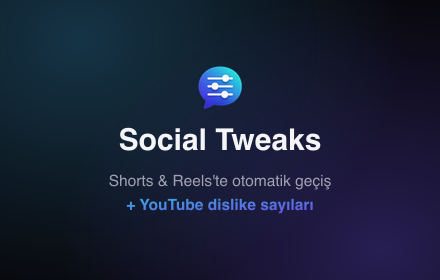
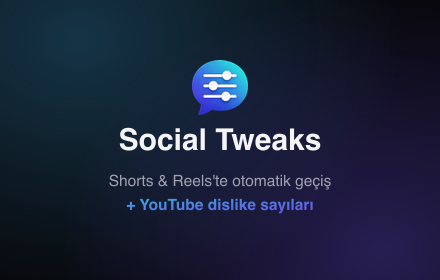
feat(store): iki dilli mağaza görselleri + listeleme metinleri (TR/EN)
- generate-store-assets.mjs iki dilli: store-assets/ (TR) + store-assets/en/ (EN)
- Ekran görüntüleri, promo blokları İngilizce sürüm
- Logo çerçeve/trim ile hizalandı (OG düzeltmesiyle tutarlı)
- store-assets/listing.md: gözden geçirilmiş TR + EN mağaza metinleri, kategori notu

Changed region(s): [[0.4136, 0.2, 0.5614, 0.4286]]

diff --git a/store-assets/listing.md b/store-assets/listing.md
@@ -1,0 +1,89 @@
+# Chrome Web Store — Mağaza Girişi Metinleri
+
+Bu dosya, Web Store Developer Dashboard'a girilecek metinleri tutar (TR + EN).
+
+## Hangi alan nereden geliyor?
+
+| Alan | Kaynak | Not |
+|---|---|---|
+| **Başlık** (45) | Paket → `manifest.name` | "Social Tweaks" (iki dilde aynı). Otomatik gelir, dashboard'da düzenlenmez. |
+| **Kısa özet** (132) | Paket → `manifest.description` (i18n) | v1.1.0 yüklenince dile göre otomatik: TR `_locales/tr`, EN `_locales/en`. |
+| **Açıklama** (16.000) | Dashboard → Mağaza girişi → dil seç → elle yapıştır | Aşağıdaki uzun metinler. **Her dil için ayrı girilir.** |
+| **Ekran görüntüleri / promo** | Dashboard → Grafik öğeler | TR: `store-assets/`, EN: `store-assets/en/` |
+
+## ⚠️ Kategori uyarısı
+Şu an **"Geliştirici Araçları"** seçili — bu **yanlış**. Bu bir geliştirici aracı değil;
+medya tüketimini iyileştiren bir kullanıcı eklentisi. Yanlış kategori, yanlış kitleye
+düşmek demek. Daha uygun seçenek: **Araçlar (Tools)** veya **Sadece Eğlence (Just for Fun)**.
+
+---
+
+## 🇹🇷 Türkçe
+
+**Başlık:** Social Tweaks
+
+**Kısa özet (121/132):**
+> Sosyal medya için küçük iyileştirmeler: YouTube Shorts ve Instagram Reels bittiğinde otomatik olarak bir sonrakine geçer.
+
+**Açıklama:**
+
+```
+Social Tweaks, sosyal medya deneyimini iyileştiren küçük ama işe yarar ayarlar sunar:
+
+• YouTube Shorts — Otomatik geçiş: Bir Short bitince otomatik olarak sıradakine geçer; durmadan, elini sürmeden izlersin.
+• YouTube — Dislike sayısı: YouTube'un arayüzden kaldırdığı beğenmeme (dislike) sayılarını video ve Shorts sayfalarında geri getirir.
+• Instagram Reels — Otomatik geçiş: Bir Reel bitince sıradaki kendiliğinden gelir, akış hiç durmaz.
+
+Her özelliği eklenti penceresinden ayrı ayrı açıp kapatabilirsin. Ücretsiz, reklamsız ve hesap gerektirmez.
+
+Gizlilik: Hiçbir sunucuya veri göndermez, analitik veya takip içermez. Ayarların yalnızca tarayıcının kendi deposunda (chrome.storage.sync) durur. "Dislike sayısını göster" açıkken, yalnızca izlediğin videonun ID'si sayıyı almak için returnyoutubedislikeapi.com'a gönderilir; bu özelliği kapatırsan hiçbir istek yapılmaz.
+
+Eklenti yalnızca YouTube (youtube.com) ve Instagram (instagram.com) sayfalarında çalışır.
+
+Açık kaynak: https://github.com/Mete-Durmazsen/social-tweaks
+```
+
+**Önceki metne göre eklenenler:** dislike'ın Shorts'ta da çalıştığı · ücretsiz/reklamsız/hesapsız · hangi sitelerde çalıştığı · "dislike kapalıyken istek yok" netliği.
+
+---
+
+## 🇬🇧 English
+
+**Title:** Social Tweaks
+
+**Short summary (107/132):**
+> Small improvements for social media: auto-advances to the next when YouTube Shorts and Instagram Reels end.
+
+**Description:**
+
+```
+Social Tweaks offers small but genuinely useful tweaks that improve your social media experience:
+
+• YouTube Shorts — Auto-advance: When a Short ends, it automatically moves to the next one, so you can keep watching hands-free.
+• YouTube — Dislike count: Brings back the dislike counts YouTube removed from the interface, on both video and Shorts pages.
+• Instagram Reels — Auto-advance: When a Reel ends, the next one plays on its own and the feed never stops.
+
+You can toggle each feature on or off independently from the extension popup. It's free, ad-free, and needs no account.
+
+Privacy: It sends no data to any server and contains no analytics or tracking. Your settings stay only in your browser's own storage (chrome.storage.sync). When "Show dislike count" is on, only the ID of the video you're watching is sent to returnyoutubedislikeapi.com to fetch the count; turn that feature off and no requests are made.
+
+The extension only runs on YouTube (youtube.com) and Instagram (instagram.com) pages.
+
+Open source: https://github.com/Mete-Durmazsen/social-tweaks
+```
+
+---
+
+## 📸 Görsel yükleme rehberi
+
+| Öğe | Boyut | TR dosyası | EN dosyası |
+|---|---|---|---|
+| Ekran görüntüsü 1 | 1280×800 | `store-assets/screenshot-1-hero.png` | `store-assets/en/screenshot-1-hero.png` |
+| Ekran görüntüsü 2 | 1280×800 | `store-assets/screenshot-2-features.png` | `store-assets/en/screenshot-2-features.png` |
+| Küçük tanıtım bloğu | 440×280 | `store-assets/promo-small-440x280.png` | `store-assets/en/promo-small-440x280.png` |
+| Kayan yazı tanıtım bloğu | 1400×560 | `store-assets/promo-marquee-1400x560.png` | `store-assets/en/promo-marquee-1400x560.png` |
+| Mağaza simgesi | 128×128 | `store-assets/icon-128.png` | (ortak) |
+
+İngilizce görselleri, ilgili dilin **"Yerelleştirilmiş ekran görüntüleri"** alanına yükle.
+
+Görselleri yeniden üretmek için: `node scripts/generate-store-assets.mjs`